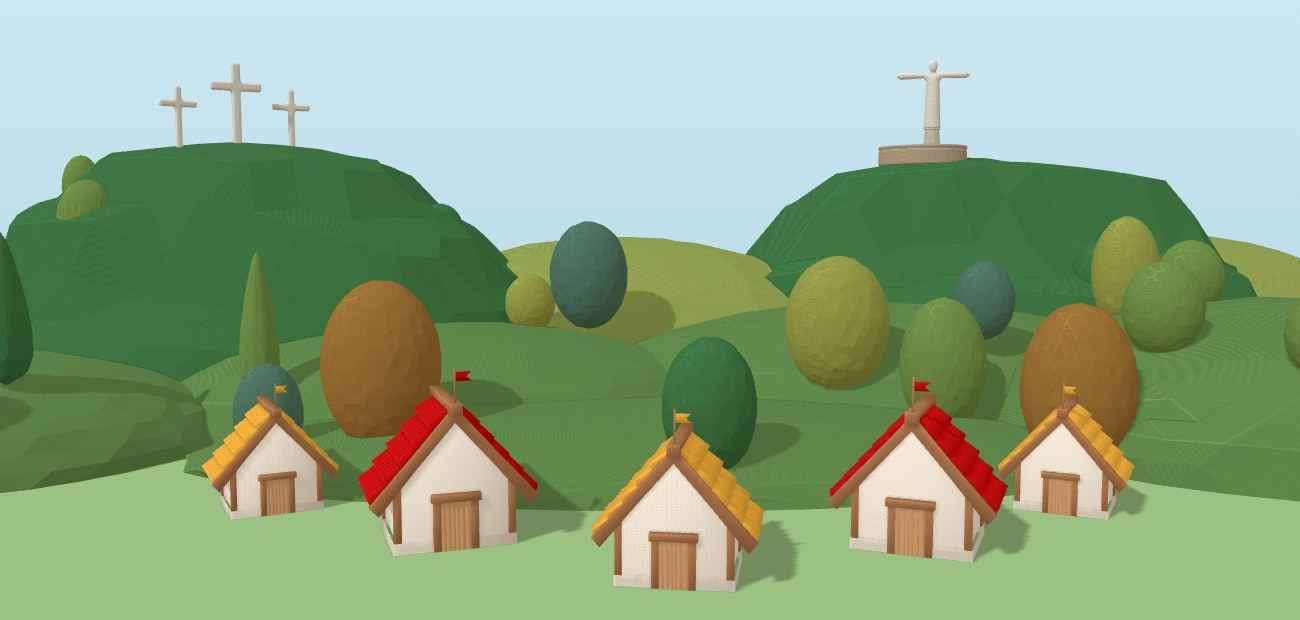
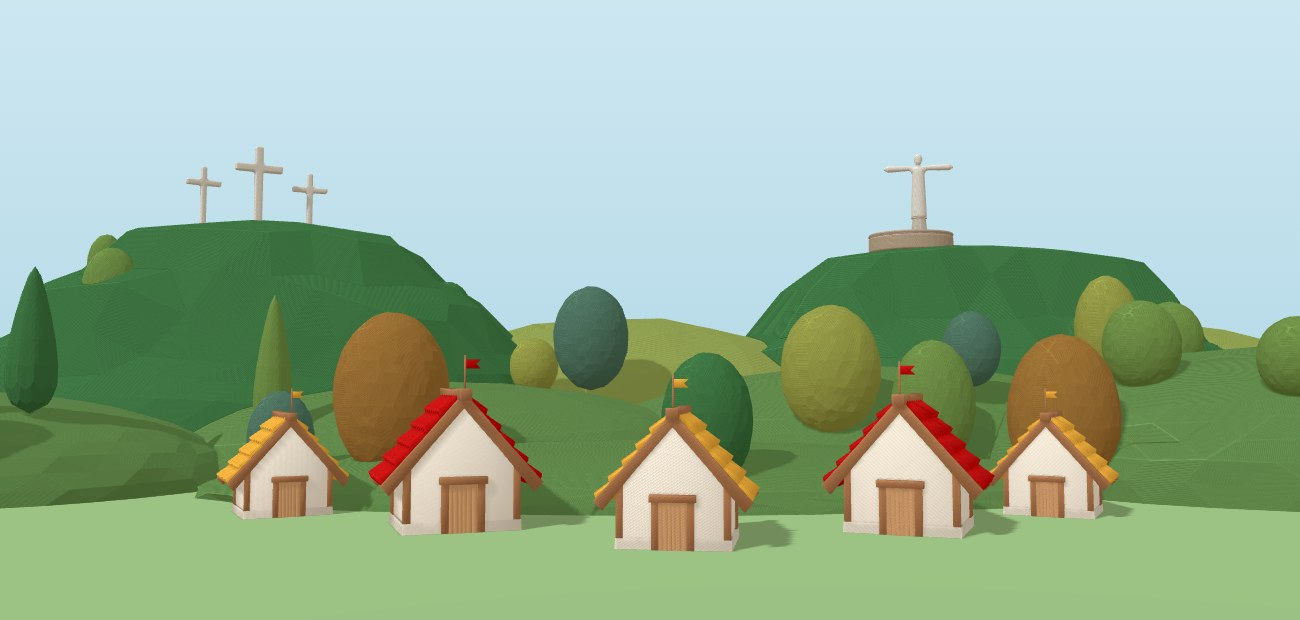
Menos lag en la portada y en Elige tu perfil, volver a la portada sin la intro, foto del donador sin casas cortadas, mapa que deja el pin a 2 cm del gato y menú del admin centrado

diff --git a/js/inicio.js b/js/inicio.js
@@ -27,7 +27,9 @@ const MENSAJE_PRINCIPAL = 'En una emergencia, ayudar también es saber dónde ha
 const MENSAJE_SEGUNDO = 'Aquí te mostraré a dónde llevar tus donaciones.';
 const DURACION_INTRO = 11400; // ms (bajada de cámara + dos mensajes)
 
-export function renderBienvenida() {
+// sinIntro: se llega con "Volver" desde Elige tu perfil (#/portada): se
+// muestra la portada directamente, sin repetir la animación.
+export function renderBienvenida({ sinIntro = false } = {}) {
   return {
     html: `
     <section class="vista pantalla-entrada portada">
@@ -93,6 +95,7 @@ export function renderBienvenida() {
       const intro = contenedor.querySelector('[data-intro]');
       const portada = contenedor.querySelector('.portada');
       const reducido = window.matchMedia('(prefers-reduced-motion: reduce)').matches;
+      const saltarIntro = reducido || sinIntro;
       let temporizador = 0;
 
       // Para que la intro no se trabe, la isla 3D y el gato de la portada
@@ -111,7 +114,7 @@ export function renderBienvenida() {
           gato.setAttribute('data-gato3d', '');
           montarGatos(contenedor.querySelector('.portada__escena'));
         }
-        import('./inicio3d.js?v=20261030c')
+        import('./inicio3d.js?v=20261030e')
           .then(({ montarIsla }) => {
             if (!salir) liberarIsla = montarIsla(contenedor.querySelector('.portada__isla'));
           })
@@ -147,9 +150,13 @@ export function renderBienvenida() {
       }
 
       // La intro se ve cada vez que se llega a la pantalla principal.
-      if (reducido) {
+      if (saltarIntro) {
         portada.classList.add('portada--entrando');
-        montarPortada();
+        // La isla se arma cuando la pantalla ya apareció (si no, la entrada
+        // se trababa).
+        temporizadorPortada = setTimeout(() => {
+          (window.requestIdleCallback ?? ((f) => setTimeout(f, 0)))(montarPortada, { timeout: 900 });
+        }, 350);
       } else mostrarIntro();
 
       contenedor.querySelector('[data-saltar-intro]').addEventListener('click', terminarIntro);
@@ -191,7 +198,8 @@ export function renderEntrar() {
     html: `
       <section class="vista pantalla-entrada vista-perfiles">
         <!-- Sin logos en esta pantalla (oct 2026) -->
-        <a class="boton-atras enlace-volver" href="#/">← Volver</a>
+        <!-- Vuelve a la portada (logos y "Siguiente"), sin repetir la intro -->
+        <a class="boton-atras enlace-volver" href="#/portada">← Volver</a>
 
         <div class="perfiles">
           <div>
@@ -199,7 +207,7 @@ export function renderEntrar() {
             <div class="perfiles__tarjetas">
               <article class="tarjeta-entrada tarjeta-entrada--hover tarjeta-entrada--donador" data-perfil="donador">
                 <div class="tarjeta-ilustracion tarjeta-ilustracion--foto" aria-hidden="true">
-                  <img src="assets/entrar/donador.jpg?v=20261030d" alt="" width="1300" height="620" loading="eager" />
+                  <img src="assets/entrar/donador.jpg?v=20261030e" alt="" width="1300" height="620" loading="eager" />
                 </div>
                 <h2>Quiero ayudar</h2>
                 <p>Mira qué necesita cada centro de acopio, en qué zona está y cómo llegar. No necesitas registrarte.</p>

diff --git a/js/gato3d.js b/js/gato3d.js
@@ -24,6 +24,9 @@ import { GLTFLoader } from 'three/addons/loaders/GLTFLoader.js';
 import { cargarGLB, MODELO_GATO } from './cargar-glb.js';
 
 const activos = new Set();
+// Renderizadores de gatos que ya salieron de pantalla, listos para usarse
+// otra vez (máx. 3).
+const poolRenderizadores = [];
 const COLOR_GATO = '#A8623A'; // mismo color de la estantería (paleta oct 2026)
 let base = null; // Promise<THREE.Group> del modelo original
 
@@ -90,8 +93,10 @@ async function montarUno(el) {
   const modeloBase = await cargarBase();
   if (!el.isConnected) return;
 
-  const renderer = new THREE.WebGLRenderer({ antialias: true, alpha: true });
-  renderer.setPixelRatio(Math.min(window.devicePixelRatio, 2));
+  // Se reutiliza un renderizador de un gato anterior si hay (crear un
+  // contexto WebGL y compilar sus shaders es lo que trababa la pantalla).
+  const renderer = poolRenderizadores.pop() ?? new THREE.WebGLRenderer({ antialias: true, alpha: true });
+  renderer.setPixelRatio(Math.min(window.devicePixelRatio, 1.5));
   if (!('outputColorSpace' in renderer)) {
     // three r147 (vista previa publicada): mismo color que r160.
     renderer.outputEncoding = THREE.sRGBEncoding;
@@ -405,7 +410,10 @@ async function montarUno(el) {
       cancelAnimationFrame(id);
       observador.disconnect();
       io.disconnect();
-      renderer.dispose();
+      // En vez de destruirlo, el renderizador queda guardado para el
+      // próximo gato (si sobran, se libera).
+      if (poolRenderizadores.length < 3 && !renderer.getContext().isContextLost()) poolRenderizadores.push(renderer);
+      else renderer.dispose();
       canvas.remove();
       el.classList.remove('gato3d--listo');
       el.classList.add('gato3d--sin3d');
@@ -419,14 +427,21 @@ async function montarUno(el) {
 /** Pone el gato 3D en todos los [data-gato3d] dentro de `raiz`. */
 export function montarGatos(raiz = document) {
   const pendientes = [...raiz.querySelectorAll('[data-gato3d]:not(.gato3d--listo):not([data-gato3d-montando])')];
-  pendientes.forEach((el) => {
+  // Cada gato se arma cuando el navegador queda libre, después de la
+  // transición de la pantalla (si no, la entrada se trababa), uno a la vez.
+  const enReposo = (f) => (window.requestIdleCallback ?? ((g) => setTimeout(g, 16)))(f, { timeout: 800 });
+  pendientes.forEach((el, i) => {
     el.dataset.gato3dMontando = '1';
-    montarUno(el)
-      .catch((e) => {
-        console.warn('Gato 3D no disponible; se usa el 2D.', e);
-        el.classList.add('gato3d--sin3d');
-      })
-      .finally(() => delete el.dataset.gato3dMontando);
+    setTimeout(() =>
+      enReposo(() =>
+        montarUno(el)
+          .catch((e) => {
+            console.warn('Gato 3D no disponible; se usa el 2D.', e);
+            el.classList.add('gato3d--sin3d');
+          })
+          .finally(() => delete el.dataset.gato3dMontando)
+      ),
+    320 + i * 150);
   });
 }
 

diff --git a/js/mapa3d.js b/js/mapa3d.js
@@ -263,6 +263,8 @@ export function montarMapa3D(opciones) {
   const vista = { cx: 0, cz: 0, mitad: 10 };
   let vistaObjetivo = null;
   const puntosLugares = []; // cimas de torre, cruces y Cristo Rey: entran en el encuadre
+  let pinUsuario = null; // "Tú estás aquí" (marcarUsuario)
+  let pinFuera = false;
 
   escena.add(new THREE.HemisphereLight('#FFF6E8', '#C9B79C', 1.6));
   const sol = new THREE.DirectionalLight('#FFFFFF', 2.2);
@@ -869,8 +871,20 @@ export function montarMapa3D(opciones) {
     // Respecto al centro de la cámara (cx, 0, cz), un punto se ve a
     // v + cz·cos; se elige cz para que el centro de [z0, z1] quede en el
     // centro del espacio libre (dy píxeles más abajo que el del lienzo).
+    let cx = (x0 + x1) / 2 - dx * s;
+    // Toda Cali con la ubicación de la persona: el mapa se corre a la
+    // derecha para que su pin quede a 2 cm del globo del gato
+    // (opciones.objetivoUsuario() = x en píxeles), sin sacar la ciudad
+    // de la pantalla.
+    const objetivoPin = !zona && pinUsuario?.visible && !pinFuera ? opciones.objetivoUsuario?.() : null;
+    if (Number.isFinite(objetivoPin)) {
+      const deseado = pinUsuario.position.x - (objetivoPin - ancho / 2) * s;
+      const minimo = x1 - (ancho / 2 - 12) * s; // el borde derecho de la ciudad sigue a la vista
+      const maximo = x0 + (ancho / 2 - (m.izquierda || 12)) * s; // y el izquierdo
+      cx = Math.min(Math.max(deseado, minimo), maximo);
+    }
     return {
-      cx: (x0 + x1) / 2 - dx * s,
+      cx,
       cz: (-dy * s - (z0 + z1) / 2) / cos,
       mitad: (alto * s) / 2,
     };
@@ -892,7 +906,6 @@ export function montarMapa3D(opciones) {
   }
 
   // --- "Tú estás aquí": pin con la ubicación del usuario ---------------
-  let pinUsuario = null;
   let anilloUsuario = null;
   const etiquetaUsuario = document.createElement('span');
   etiquetaUsuario.className = 'mapa3d__etiqueta-zona mapa3d__etiqueta-tu';
@@ -952,6 +965,8 @@ export function montarMapa3D(opciones) {
     }
     pinUsuario.visible = true;
     pinUsuario.position.set(p.x, fuera ? 0.05 : Y_SUPERFICIE, p.z);
+    pinFuera = fuera;
+    enfocarCamara(zonaSeleccionada); // el mapa se acomoda al pin (ver encuadreDe)
     return fuera ? 'borde' : true;
   }
 

diff --git a/js/main.js b/js/main.js
@@ -13,9 +13,9 @@ import { inicializarStore } from './store.js';
 import { agregarBotonInicio, botonesNavSoloIcono } from './boton-inicio.js?v=20261029e';
 import { montarGatos, limpiarGatos } from './gatos.js';
 import { cargarMiniaturas } from './ilustraciones.js';
-import * as inicio from './inicio.js?v=20261030d';
+import * as inicio from './inicio.js?v=20261030e';
 import * as estanteriaDonante from './donante/estanteria.js?v=20261030d';
-import * as mapaDonante from './donante/mapa.js?v=20261030c';
+import * as mapaDonante from './donante/mapa.js?v=20261030e';
 import * as fichaDonante from './donante/ficha.js?v=20261029b';
 import * as prerregistroDonante from './donante/prerregistro.js?v=20261030d';
 import * as llegarDonante from './donante/llegar.js?v=20261029b';
@@ -43,6 +43,7 @@ let limpiezaActual = null;
 // volver a uno menor la desliza desde la izquierda (retroceder).
 const NIVELES = [
   [/^#\/$/, 0], // bienvenida
+  [/^#\/portada$/, 0], // portada sin la intro
   [/^#\/entrar$/, 1], // elegir perfil
   [/^#\/admin\/login$/, 2],
   [/^#\/admin\/registro$/, 2.5],
@@ -182,6 +183,7 @@ function renderNoEncontrada(hash) {
 // --- Rutas del donante (D1–D6) -------------------------------
 // D4 (mapa.js) monta el mapa 3D de mapa3d.js.
 registrarRuta(/^#\/$/, inicio.renderBienvenida);
+registrarRuta(/^#\/portada$/, () => inicio.renderBienvenida({ sinIntro: true }));
 registrarRuta(/^#\/entrar$/, inicio.renderEntrar);
 // La bienvenida del donante ahora es la pantalla inicial (#/).
 registrarRuta(/^#\/donante\/bienvenida$/, () => {

diff --git a/js/donante/mapa.js b/js/donante/mapa.js
@@ -310,7 +310,7 @@ export function render({ subcategoriaId }) {
       }
 
       // Carga diferida del mapa 3D.
-      import('../mapa3d.js?v=20261030c')
+      import('../mapa3d.js?v=20261030e')
         .then(({ montarMapa3D }) => {
           if (destruido) return;
           const necesidades = Object.fromEntries(
@@ -343,6 +343,12 @@ export function render({ subcategoriaId }) {
                 izquierda: zonasNav ? zonasNav.right - r.left + 12 : 0,
                 derecha: !angosta && gato.width ? r.right - gato.left + 8 : 12,
               };
+            },
+            // Con la ubicación: el pin queda a 2 cm (≈ 76 px) del globo del gato.
+            objetivoUsuario: () => {
+              const globo = gatoEl.querySelector('.gato-guia__globo')?.getBoundingClientRect();
+              if (!globo?.width) return null;
+              return globo.left - mapaEl.getBoundingClientRect().left - 76;
             },
             alClicCentro: (id) => {
               location.hash = `#/donante/ficha/${id}/${subcategoriaId}`;

diff --git a/js/inicio3d.js b/js/inicio3d.js
@@ -246,12 +246,18 @@ export function montarIsla(contenedor, { camara: vistaCamara = null, capturable 
   // Donaciones: los modelos de la estantería, asomándose de las cajas y
   // sueltas sobre las mesas. Cada uno se apoya en algo: el fondo de una
   // caja, el tablero de una mesa o la tapa de una caja cerrada.
-  listasCajas.then((alturas) => {
+  // Se cargan uno por uno, dejando respirar al navegador entre cada uno
+  // (todos a la vez trababan la portada).
+  const respiro = () =>
+    new Promise((ok) => (window.requestIdleCallback ?? ((f) => setTimeout(f, 16)))(ok, { timeout: 300 }));
+  listasCajas.then(async (alturas) => {
     if (!alturas || destruido) return;
     for (const [sub, alto, [x, y, z]] of productos(alturas)) {
     const ruta = MODELOS_SUBCATEGORIA[sub];
     if (!ruta) continue;
-    cargarGLB(cargador, ruta)
+    await respiro();
+    if (destruido) return;
+    await cargarGLB(cargador, ruta)
       .then((gltf) => {
         if (destruido) return;
         const modelo = gltf.scene;

diff --git a/css/tema.css b/css/tema.css
@@ -5563,3 +5563,27 @@ html[data-rol="inicio"] #app .boton-nav { color: #011E41 !important; }
   aspect-ratio: 1;
   padding: 0 !important;
 }
+
+/* Elige tu perfil (oct 2026, 20): la pregunta un poco más abajo */
+.vista-perfiles .perfiles h1 {
+  position: relative;
+  top: 18px;
+}
+
+/* Menú del admin (oct 2026, 20): título, centro, tareas y gato forman un
+   bloque centrado (mismo margen a los dos lados); las tareas van junto al
+   gato. */
+@media (min-width: 901px) {
+  #app > .vista.vista-menu-admin:not(#x) {
+    max-width: 1120px !important;
+    margin-left: auto !important;
+    margin-right: auto !important;
+  }
+  .vista-menu-admin .menu-admin__cuerpo {
+    grid-template-columns: minmax(0, 1fr) 360px !important;
+    gap: 24px !important;
+  }
+  .vista-menu-admin .menu-admin__gato {
+    justify-content: center !important;
+  }
+}

diff --git a/index.html b/index.html
@@ -16,7 +16,7 @@
   <link rel="stylesheet" href="css/donante.css?v=20261028c" />
   <link rel="stylesheet" href="css/admin.css?v=20261028c" />
   <link rel="stylesheet" href="css/entrada.css?v=20261028c" />
-  <link rel="stylesheet" href="css/tema.css?v=20261030d" />
+  <link rel="stylesheet" href="css/tema.css?v=20261030e" />
 
   <!-- three.js (versión fija) para el mapa 3D de Cali (D4) -->
   <script type="importmap">
@@ -35,6 +35,6 @@
     <p style="padding:2rem;font-family:sans-serif;">CaliDa necesita JavaScript activado para funcionar.</p>
   </noscript>
 
-  <script type="module" src="js/main.js?v=20261030d"></script>
+  <script type="module" src="js/main.js?v=20261030e"></script>
 </body>
 </html>

diff --git a/js/gatos.js b/js/gatos.js
@@ -4,7 +4,7 @@
 // ============================================================
 
 let modulo = null;
-const cargar = () => (modulo ??= import('./gato3d.js?v=20261030a'));
+const cargar = () => (modulo ??= import('./gato3d.js?v=20261030e'));
 
 export function montarGatos(raiz) {
   if (!raiz.querySelector('[data-gato3d]')) return;

diff --git a/CLAUDE.md b/CLAUDE.md
@@ -435,3 +435,20 @@ El mapa solo muestra centros en 0–2. Casas: roja = urgente, amarilla = desabas
   que los botones del izquierdo. "Volver a las cantidades" siempre redondo.
 - Servidor local de pruebas: `.claude/servidor.mjs` (Node, sin caché; el de Python cortaba
   `tema.css`). Versión actual: `?v=20261030d`.
+
+## Ajustes de oct 2026 (20)
+- **Menos lag:** los gatos 3D se arman cuando el navegador queda libre, después de la transición
+  (`montarGatos` en `gato3d.js`, 320 ms + `requestIdleCallback`), a `pixelRatio` 1,5 y
+  reutilizando los renderizadores de gatos anteriores (`poolRenderizadores`: crear el contexto
+  WebGL y compilar shaders era lo que trababa). Los productos de la isla se cargan uno por uno con
+  un respiro entre cada uno.
+- **"Volver" de Elige tu perfil → `#/portada`:** la portada (logos y "Siguiente") sin repetir la
+  intro (`renderBienvenida({ sinIntro: true })`; la isla se arma después de que aparece).
+- `donador.jpg` con la cámara más baja (ninguna casa cortada); la pregunta de Elige tu perfil
+  baja 18 px.
+- **Mapa:** con la ubicación de la persona, "Toda Cali" corre el mapa para que el pin "Tú estás
+  aquí" quede a 2 cm (76 px) del globo del gato (`objetivoUsuario` en `mapa.js`; `encuadreDe`
+  sin sacar la ciudad de la pantalla).
+- **Menú del admin:** título, centro, tareas y gato en un bloque centrado de 1120 px (mismo
+  margen a los dos lados); las tareas junto al gato (columna de 360 px).
+- Versión actual: `?v=20261030e`.
